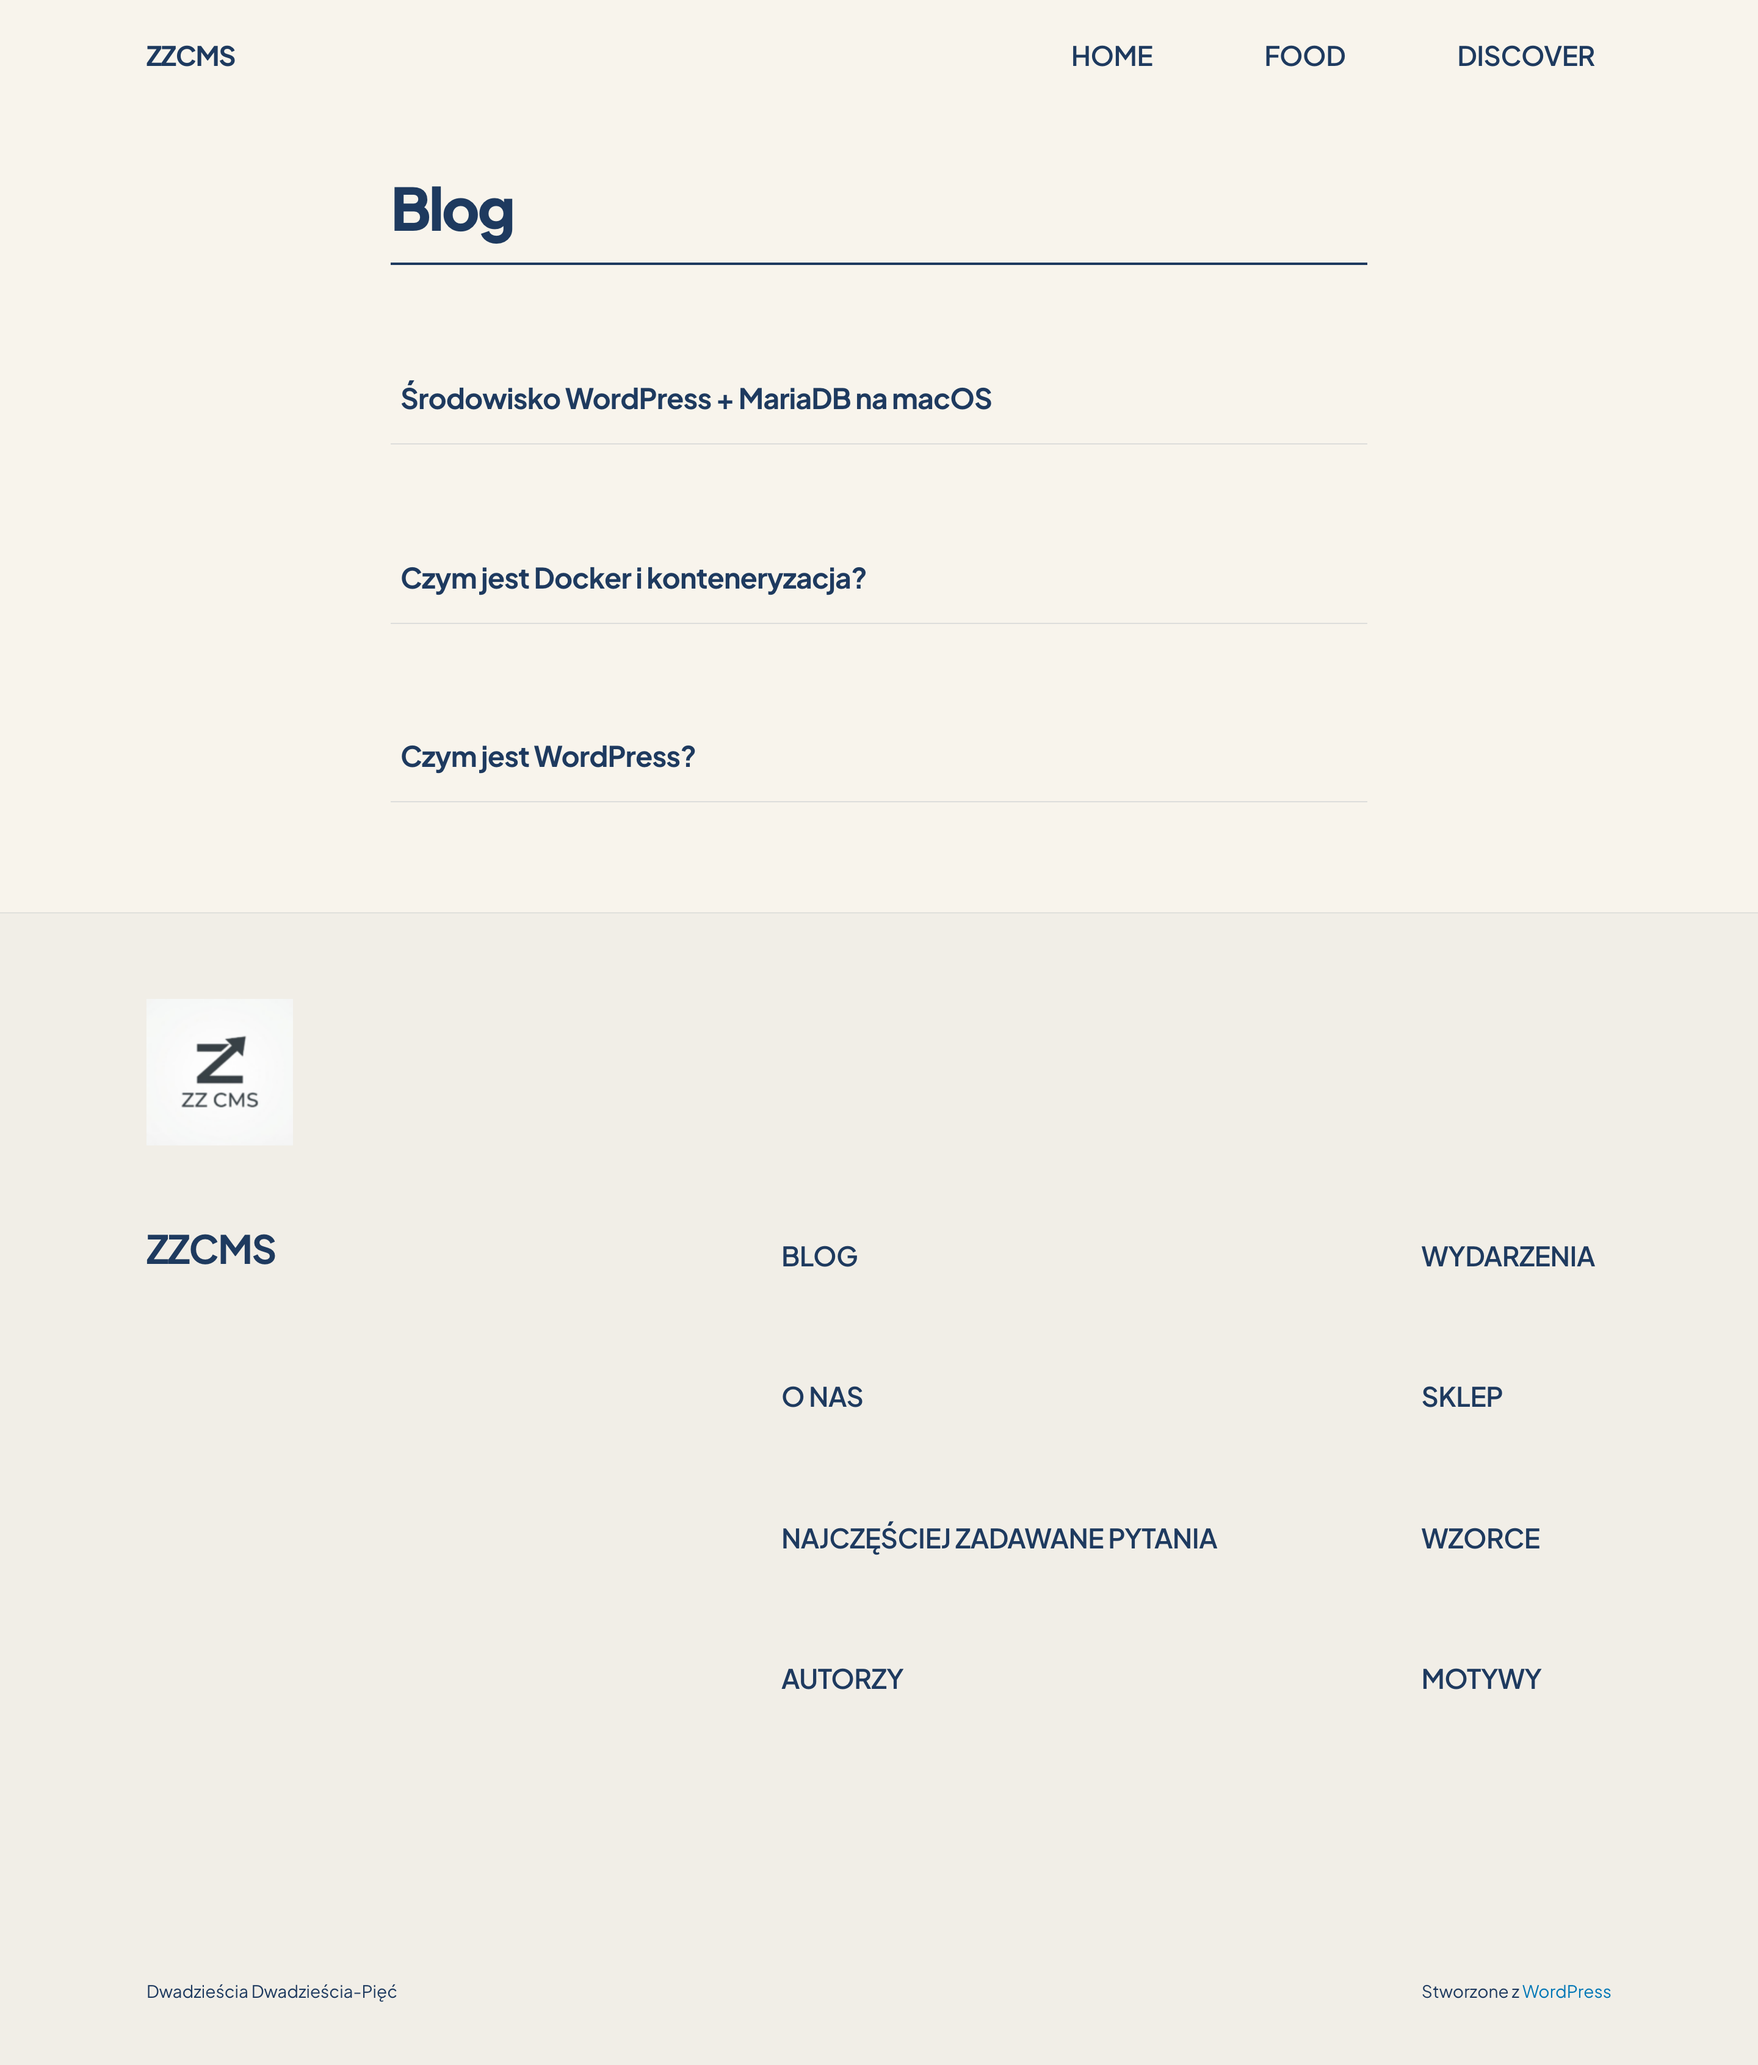
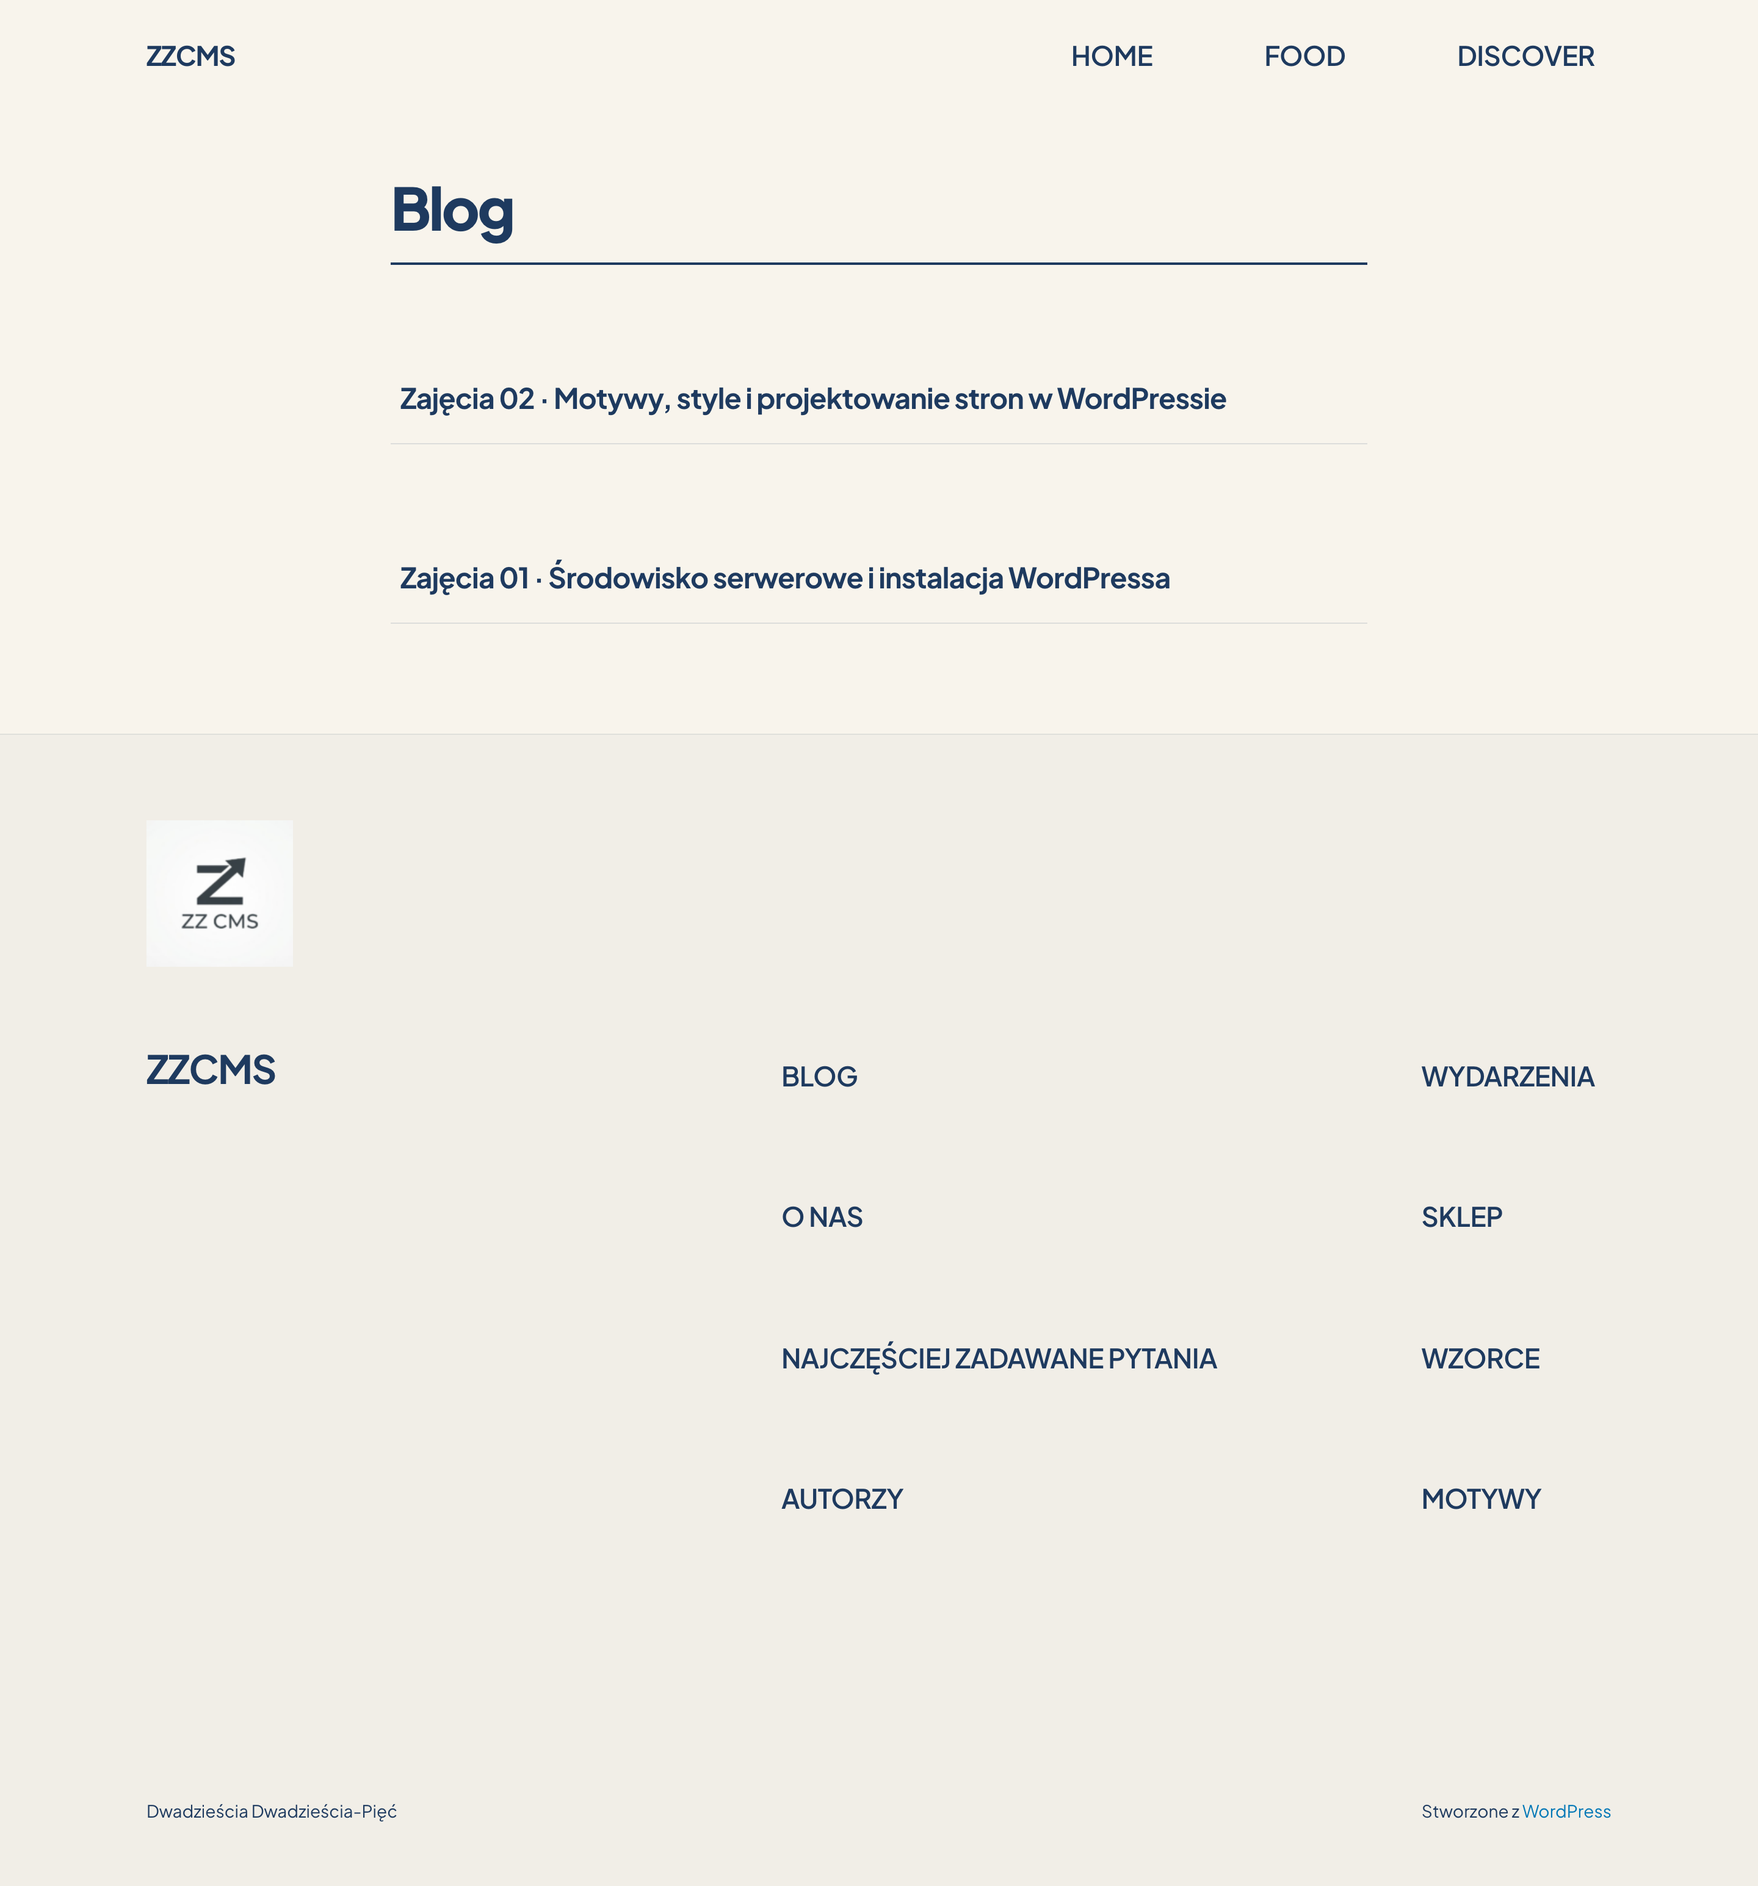
update: Zajecia 01 i 02 + odswiezione screenshoty wszystkich podstron

diff --git a/README.md b/README.md
@@ -1,62 +1,55 @@
-# zajecia cms zdjecia strony
+# Zajęcia CMS – Zdjęcia Strony
 
-Dokumentacja wizualna oraz zrzuty ekranu (full-page) lokalnego serwisu WordPress uruchomionego w środowisku Docker (MariaDB + WordPress) na systemie macOS.
+Repozytorium zawiera zrzuty ekranu lokalnej witryny WordPress zbudowanej w Dockerze na macOS, dokumentującej zajęcia z przedmiotu CMS.
 
----
+## Motyw
 
-## 📸 Galeria Zrzutów Ekranu
-
-### 1. Strona Główna (Lista wpisów / Lekcje IT)
-*Przegląd wpisów blogowych z wdrożoną paletą barw Malty i nową typografią.*
-![Strona Główna](screenshots/01-strona-glowna.png)
-
----
-
-### 2. Wpis: Czym jest WordPress?
-*Artykuł omawiający architekturę CMS, silnik Core, motywy, wtyczki oraz REST API.*
-![Czym jest WordPress](screenshots/02-wpis-czym-jest-wordpress.png)
+Własny motyw potomny (child theme) **Strona** oparty na Twenty Twenty-Five:
+- Paleta barw inspirowana Maltą (Warm Limestone, Deep Navy, Mediterranean Blue, Golden Sand…)
+- Czcionka: **Plus Jakarta Sans**
+- Blog: lista czystych linków bez miniatur i dat
+- Każda strona zajęć: 3 ilustracje SVG
 
 ---
 
-### 3. Wpis: Czym jest Docker i konteneryzacja?
-*Podstawy wirtualizacji na poziomie kernela, definicje obrazu, kontenera oraz Docker Engine.*
-![Czym jest Docker](screenshots/03-wpis-czym-jest-docker.png)
+## Podstrony
+
+| Plik | Opis | URL (lokalnie) |
+|------|------|----------------|
+| `01-strona-glowna.png` | Strona główna – lista zajęć | `http://localhost/` |
+| `02-zajecia-01.png` | Zajęcia 01 – Środowisko serwerowe i instalacja WordPressa | `http://localhost/2026/10/16/zajecia-01-…/` |
+| `03-zajecia-02.png` | Zajęcia 02 – Motywy, style i projektowanie stron w WordPressie | `http://localhost/2026/10/23/zajecia-02-…/` |
+| `04-podstrona-home.png` | Podstrona HOME – mapa Malty | `http://localhost/home/` |
+| `05-podstrona-food.png` | Podstrona FOOD – Pastizzi | `http://localhost/food/` |
+| `06-podstrona-discover.png` | Podstrona DISCOVER – Gozo | `http://localhost/discover/` |
 
 ---
 
-### 4. Wpis: Środowisko WordPress + MariaDB na macOS
-*Praktyczna konfiguracja pliku docker-compose.yml i uruchomienie bazy MariaDB oraz WordPressa na macOS.*
-![Środowisko WordPress macOS](screenshots/04-wpis-srodowisko-macos.png)
+## Screenshoty
+
+### 01 – Strona główna
+![Strona główna](screenshots/01-strona-glowna.png)
+
+### 02 – Zajęcia 01
+![Zajęcia 01](screenshots/02-zajecia-01.png)
+
+### 03 – Zajęcia 02
+![Zajęcia 02](screenshots/03-zajecia-02.png)
+
+### 04 – HOME
+![HOME](screenshots/04-podstrona-home.png)
+
+### 05 – FOOD
+![FOOD](screenshots/05-podstrona-food.png)
+
+### 06 – DISCOVER
+![DISCOVER](screenshots/06-podstrona-discover.png)
 
 ---
 
-### 5. Podstrona: HOME (Malta)
-*Widok podstrony wprowadzającej z mapą Malty.*
-![HOME](screenshots/05-podstrona-home.png)
+## Stack
 
----
-
-### 6. Podstrona: FOOD (Pastizzi)
-*Kulinaria i tradycyjne maltańskie pastizzi w stylizowanym kontenerze.*
-![FOOD](screenshots/06-podstrona-food.png)
-
----
-
-### 7. Podstrona: DISCOVER (Gozo & Gnejna)
-*Miejsca i atrakcje archipelagu maltańskiego.*
-![DISCOVER](screenshots/07-podstrona-discover.png)
-
----
-
-## 🛠 Specyfikacja Środowiska Lokalnego
-
-| Komponent | Wersja / Narzędzie | Rola |
-| :--- | :--- | :--- |
-| **Silnik wirtualizacji** | Docker Desktop (macOS) | Konteneryzacja stosu technologicznego |
-| **Baza danych** | MariaDB | Przechowywanie danych WordPressa |
-| **CMS** | WordPress 6.7+ | Serwer aplikacji i generator treści |
-| **Motyw** | `strona` (child theme Twenty Twenty-Five) | Szablon blokowy FSE z dedykowaną paletą Malty |
-| **Adres lokalny** | `http://localhost` | Port 80 (mapowany z kontenera) |
-
----
-*Repozytorium utworzone automatycznie: zajecia cms zdjecia strony.*
+- **CMS**: WordPress (latest) w kontenerze Docker
+- **Baza danych**: MariaDB (latest)
+- **System**: macOS / Docker Desktop
+- **Screenshoty**: Playwright (Chromium, 1440 × 900 @2×, fullPage)
